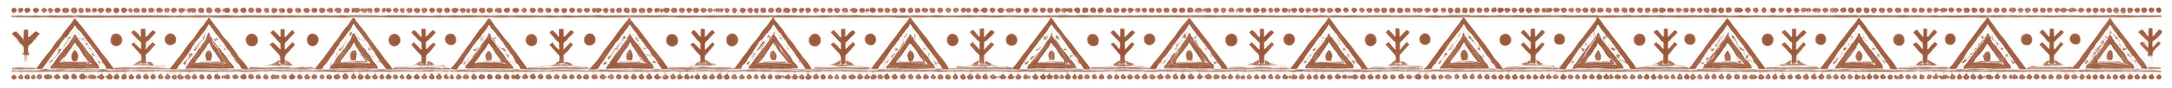
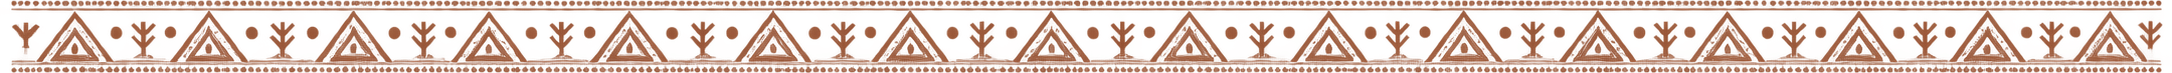
fix(associations): tighten border crop so pattern starts at section top
The previous 2172x88 crop still had 7px of transparent margin at the
top of the pattern band, so the top border sat 7px below the section
edge (~4px at rendered scale). Re-cropped to exactly 2172x73 — the
pattern's own bounds — so the top border hugs the section's top
line with no leading whitespace. height prop updated 88 -> 73.
docs/MEMORY.MD updated.

diff --git a/frontend/src/app/page.tsx b/frontend/src/app/page.tsx
@@ -371,7 +371,7 @@ export default function HomePage() {
             alt=""
             aria-hidden
             width={2172}
-            height={88}
+            height={73}
             loading="eager"
             className="pointer-events-none absolute left-0 top-0 w-full h-auto select-none"
           />
@@ -381,7 +381,7 @@ export default function HomePage() {
             alt=""
             aria-hidden
             width={2172}
-            height={88}
+            height={73}
             loading="eager"
             className="pointer-events-none absolute left-0 bottom-0 w-full h-auto select-none -scale-y-100"
           />

diff --git a/docs/MEMORY.MD b/docs/MEMORY.MD
@@ -185,7 +185,7 @@
 | 2026-08-23 | Footer copyright uses `/logo.png` (was `lucide-react` Leaf icon) | Brand consistency — the copyright bar now carries the actual Manikstu logo instead of a generic leaf glyph. Dropped unused `Leaf` import. |
 | 2026-08-23 | Removed hero green-wave decoration | The right-side `absolute` SVG wave (opacity-10 green) leaked visible edges next to the "Watch Our Story" card and cluttered the hero. Deleted the decoration `<div>`; hero is now clean white. |
 | 2026-08-23 | Added `hero-motif.png` tribal-mandala hero background | User-provided PNG (public/hero-motif.png) — placed as absolutely-positioned decorative `<Image>` fully inside the hero (right: 16px, h-[95%] w-auto → complete mandala visible, no bleed into the section below), opacity 0.14 (0.18 in dark mode), pointer-events-none / aria-hidden so it stays decorative and text remains readable. Wrapped in `absolute inset-0 overflow-hidden` container as extra safety. Loaded with `priority` for LCP. |
-| 2026-08-23 | Added `patterns/tribal-border.png` as Associations top/bottom border | User-provided horizontal Saura-style tribal border. Source PNG (2172×724) had ~90% transparent whitespace around the actual 73px pattern band (rows 322–394); cropped to 2172×88 with sharp so the file IS the pattern. Rendered directly as two `<Image>` elements — top at `absolute top-0 w-full h-auto`, bottom mirrored with `-scale-y-100 absolute bottom-0`. No clipping tricks needed anymore. |
+| 2026-08-23 | Added `patterns/tribal-border.png` as Associations top/bottom border | User-provided horizontal Saura-style tribal border. Source PNG (2172×724) had ~90% transparent whitespace around the actual 73px pattern band (rows 322–394); cropped tight to 2172×73 with sharp so the file IS the pattern and the top border hugs the section top edge with no leading whitespace. Rendered directly as two `<Image>` elements — top at `absolute top-0 w-full h-auto`, bottom mirrored with `-scale-y-100 absolute bottom-0`. |
 | 2026-08-23 | Installed `sharp` dependency | Next.js 14 image optimizer's fallback (Squoosh WASM) refused the new tribal-border PNG with "isn't a valid image ... received null". Sharp 0.35 fixed decoding. Standard Next.js recommendation for production/dev image optimization. |
 | 2026-08-23 | Force-eager loading on Associations border images | `<Image>` defaults to `loading="lazy"`, but the borders sit inside a 64px `overflow-hidden` container that clips ~85% of the underlying image; Chromium's lazy-load heuristic then decided the image was off-screen and never fetched it. Explicit `loading="eager"` makes both borders paint on first render. |
 
